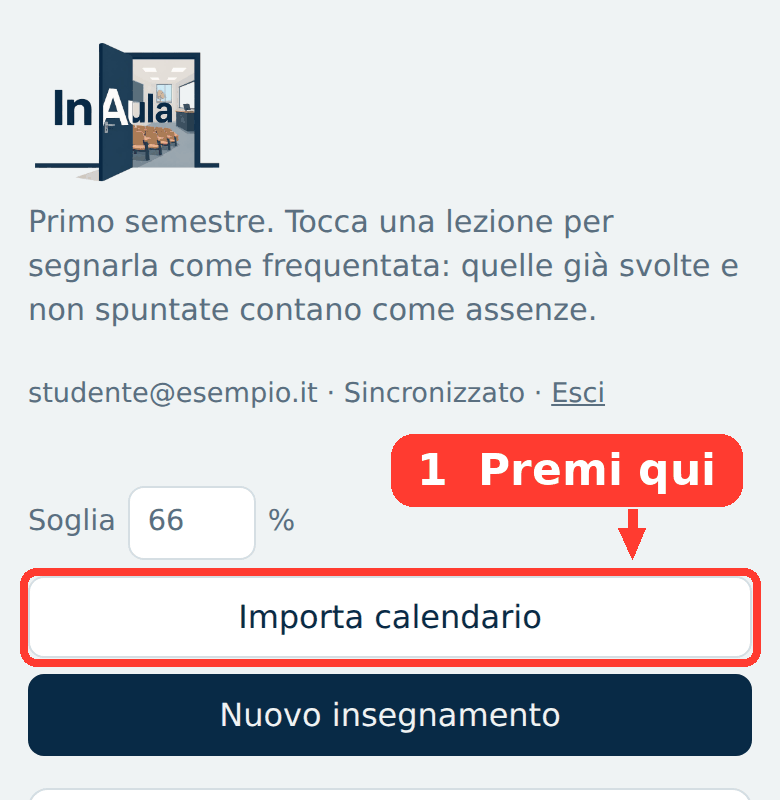
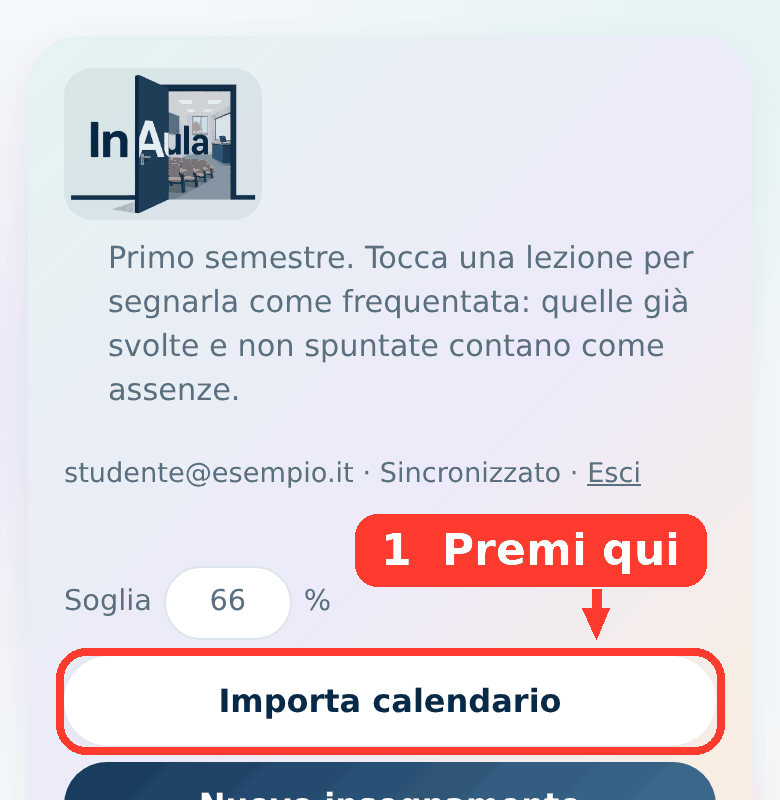
Add files via upload

diff --git a/index.html b/index.html
@@ -14,9 +14,9 @@
 <title>InAula</title>
 <link href="https://fonts.googleapis.com/css2?family=Bricolage+Grotesque:opsz,wght@12..96,400..700&display=swap" rel="stylesheet">
 <style>
-:root{--bg:#EFF3F4;--sf:#fff;--ink:#082A46;--mu:#5A6F80;--ln:#D5DEE3;--ok:#3B7A76;--no:#B8425A;--wa:#9A6427;--rs:#C9D3D9;color-scheme:light}
-@media (prefers-color-scheme:dark){:root:not([data-theme="light"]){--bg:#0B1B2B;--sf:#12283D;--ink:#E6EEF4;--mu:#95A9BA;--ln:#233A50;--ok:#5FB3AD;--no:#EE7C93;--wa:#D9A05B;--rs:#2A4258;color-scheme:dark}}
-:root[data-theme="dark"]{--bg:#0B1B2B;--sf:#12283D;--ink:#E6EEF4;--mu:#95A9BA;--ln:#233A50;--ok:#5FB3AD;--no:#EE7C93;--wa:#D9A05B;--rs:#2A4258;color-scheme:dark}
+:root{--bg:#F5F8FA;--sf:#fff;--ink:#082A46;--mu:#5A6F80;--ln:#DCE5EA;--ok:#2F7A5E;--no:#C0506B;--wa:#9A6427;--rs:#C9D3D9;--bgimg:radial-gradient(520px 340px at 100% 0,#E4F3F3 0,transparent 62%),radial-gradient(480px 320px at 0 22%,#EEEAF9 0,transparent 60%),radial-gradient(520px 360px at 100% 62%,#FBF1E2 0,transparent 60%);--hg:linear-gradient(135deg,#E5F3F1 0,#EDEAF9 55%,#FBEFDD 100%);--sh:0 6px 18px rgba(11,43,74,.07);--blend:multiply;--ct:13%;--warnbg:#FBF0DC;--dotpct:80%;--dotmix:#0B2B4A;--dotck:#fff;--pri:linear-gradient(135deg,#17395B,#3E6E96);--pric:#fff;--btnsh:0 1px 6px rgba(11,43,74,.08);color-scheme:light}
+@media (prefers-color-scheme:dark){:root:not([data-theme="light"]){--bg:#0B1B2B;--sf:#12283D;--ink:#E6EEF4;--mu:#95A9BA;--ln:#233A50;--ok:#6CBF9A;--no:#EE7C93;--wa:#D9A05B;--rs:#2A4258;--bgimg:radial-gradient(520px 340px at 100% 0,#123240 0,transparent 62%),radial-gradient(480px 320px at 0 22%,#1A2247 0,transparent 60%),radial-gradient(520px 360px at 100% 62%,#2B2A22 0,transparent 60%);--hg:linear-gradient(135deg,#143446 0,#1B2A4C 55%,#35291F 100%);--sh:0 6px 18px rgba(0,0,0,.35);--blend:normal;--ct:16%;--warnbg:#3A2F1D;--dotpct:100%;--dotmix:#0B2B4A;--dotck:#0B1B2B;--pri:linear-gradient(135deg,#8DBBE0,#A9A3DE);--pric:#0B1B2B;--btnsh:0 1px 6px rgba(0,0,0,.3);color-scheme:dark}}
+:root[data-theme="dark"]{--bg:#0B1B2B;--sf:#12283D;--ink:#E6EEF4;--mu:#95A9BA;--ln:#233A50;--ok:#6CBF9A;--no:#EE7C93;--wa:#D9A05B;--rs:#2A4258;--bgimg:radial-gradient(520px 340px at 100% 0,#123240 0,transparent 62%),radial-gradient(480px 320px at 0 22%,#1A2247 0,transparent 60%),radial-gradient(520px 360px at 100% 62%,#2B2A22 0,transparent 60%);--hg:linear-gradient(135deg,#143446 0,#1B2A4C 55%,#35291F 100%);--sh:0 6px 18px rgba(0,0,0,.35);--blend:normal;--ct:16%;--warnbg:#3A2F1D;--dotpct:100%;--dotmix:#0B2B4A;--dotck:#0B1B2B;--pri:linear-gradient(135deg,#8DBBE0,#A9A3DE);--pric:#0B1B2B;--btnsh:0 1px 6px rgba(0,0,0,.3);color-scheme:dark}
 *{box-sizing:border-box}
 html{-webkit-text-size-adjust:100%}
 body{margin:0;background:var(--bg);color:var(--ink);font:16px/1.45 'Bricolage Grotesque',system-ui,sans-serif}
@@ -104,6 +104,35 @@ label.ck{display:flex;align-items:center;gap:8px}label.ck input{width:auto}
 @media (max-width:520px){main{padding:18px 14px 90px}.bar{width:100%}.thr{flex:1 0 100%}.bar .btn{flex:1 1 auto}}
 .loginbox{max-width:380px;margin-top:18px}
 .lnk{border:0;background:none;text-decoration:underline;padding:8px 0;color:var(--mu);cursor:pointer}
+body{background:var(--bgimg),var(--bg);background-attachment:fixed}
+header{background:var(--hg);border-radius:26px;padding:16px 18px 18px;box-shadow:var(--sh)}
+.logo{mix-blend-mode:var(--blend)}
+.btn{border-radius:999px;padding:10px 18px;font-weight:600}
+.btn.pri{background:var(--pri);color:var(--pric);border:0}
+.btn:not(.pri){border-color:transparent;box-shadow:var(--btnsh)}
+.thr input{border-radius:999px;text-align:center}
+.today{border:0;border-radius:22px;box-shadow:var(--sh);padding:16px 16px 10px}
+.today h2{font-size:1.25rem;font-weight:800}
+.today li{border-top:0!important;background:color-mix(in srgb,var(--cc) 11%,var(--sf));border-left:6px solid var(--cc);border-radius:14px;padding:8px 10px;margin:8px 0}
+.dot{border-color:color-mix(in srgb,var(--cc,var(--mu)) var(--dotpct),var(--dotmix));color:var(--dotck)}
+.dot.on{background:color-mix(in srgb,var(--cc,var(--ok)) var(--dotpct),var(--dotmix));border-color:color-mix(in srgb,var(--cc,var(--ok)) var(--dotpct),var(--dotmix))}
+.dot.abs{border-color:var(--no)}
+.legend{background:color-mix(in srgb,var(--sf) 62%,transparent);border-radius:16px;padding:10px 14px}
+.warn{border:0;border-radius:18px;background:var(--warnbg);box-shadow:var(--sh)}
+.card{border:0;border-radius:22px;background:linear-gradient(180deg,color-mix(in srgb,var(--cc) var(--ct),var(--sf)) 0,var(--sf) 55%);box-shadow:var(--sh);padding:20px 16px 12px;position:relative;overflow:hidden}
+.card::before{content:"";position:absolute;left:0;right:0;top:0;height:7px;background:var(--cc)}
+.card .pie circle[stroke="var(--ok)"]{stroke:var(--cc)}
+.card .pie circle[stroke="var(--rs)"]{stroke:color-mix(in srgb,var(--cc) 20%,var(--sf))}
+.top h2{font-size:1.2rem;font-weight:800}
+.verdict{display:inline-block;justify-self:start;padding:4px 12px;border-radius:999px;background:color-mix(in srgb,var(--st) 11%,var(--sf));font-size:.86rem}
+.card details summary{color:var(--ink);font-weight:600}
+.fab{background:linear-gradient(135deg,#6DB3AB,#A29CDB);color:#0B2B4A;box-shadow:0 3px 10px rgba(11,43,74,.18)}
+.sw{display:flex;flex-wrap:wrap;gap:10px;margin:6px 0 2px}
+.sw label{margin:0;display:block;position:relative}
+.sw input{position:absolute;opacity:0;width:1px;height:1px}
+.sw span{display:block;width:34px;height:34px;border-radius:50%;border:3px solid transparent;box-shadow:0 0 0 1px var(--ln);cursor:pointer}
+.sw input:checked+span{border-color:var(--sf);box-shadow:0 0 0 3px var(--ink)}
+.sw input:focus-visible+span{outline:2px solid var(--ok);outline-offset:3px}
 </style>
 </head>
 <body>
@@ -122,7 +151,7 @@ label.ck{display:flex;align-items:center;gap:8px}label.ck input{width:auto}
 </header>
 <div id="warn"></div>
 <section class="today" id="today"></section>
-<p class="legend"><span><i style="background:var(--ok)"></i>Presenze</span><span><i style="background:var(--no)"></i>Assenze già fatte</span><span><i style="background:var(--rs)"></i>Lezioni restanti</span><span>La tacca sull'anello segna il minimo da raggiungere, arrotondato per eccesso.</span></p>
+<p class="legend"><span><i style="background:conic-gradient(#6DB3AB,#A29CDB,#7FB0DC,#E2BC7C,#98C08E,#6DB3AB)"></i>Presenze (nel colore dell'insegnamento)</span><span><i style="background:var(--no)"></i>Assenze già fatte</span><span><i style="background:var(--rs)"></i>Lezioni restanti</span><span>La tacca sull'anello segna il minimo da raggiungere, arrotondato per eccesso.</span></p>
 <div class="grid" id="grid"></div>
 <div id="archive"></div>
 <button class="fab" data-act="guide" aria-label="Apri la guida">? Guida</button>
@@ -166,7 +195,7 @@ label.ck{display:flex;align-items:center;gap:8px}label.ck input{width:auto}
 <details class="gs" id="gs2"><summary>2. Importare il calendario in InAula</summary><div class="gb">
 <ol class="st">
 <li>Premi <b>Importa calendario</b> in alto.<img class="gimg" src="guida-5.png" width="780" height="800" alt="Intestazione di InAula con il pulsante Importa calendario evidenziato" loading="lazy"></li>
-<li>Nella finestra che si apre segui i numeri:<img class="gimg" src="guida-6.png" width="780" height="1562" alt="Finestra Importa calendario con quattro punti numerati" loading="lazy">
+<li>Nella finestra che si apre segui i numeri:<img class="gimg" src="guida-6.png" width="780" height="1566" alt="Finestra Importa calendario con quattro punti numerati" loading="lazy">
 <ol class="sub"><li><b>Incolla il link</b> copiato dall'università: si legge da solo. (Se non parte, premi <b>Leggi il link</b>.)</li>
 <li>Scegli come contare la frequenza: <b>per insegnamento intero</b> (la soglia vale sul totale dei moduli) oppure <b>per singoli moduli</b> (ogni modulo ha la sua soglia).</li>
 <li>Scegli se contare in <b>numero di lezioni</b> o in <b>ore</b>.</li>
@@ -179,24 +208,24 @@ label.ck{display:flex;align-items:center;gap:8px}label.ck input{width:auto}
 
 <details class="gs" id="gs3"><summary>3. Segnare le presenze e vedere le lezioni di oggi</summary><div class="gb">
 <p><b>Tocca il cerchio</b> accanto alla lezione a cui vai: diventa verde con la spunta. Toccalo di nuovo per annullare.</p>
-<img class="gimg" src="guida-7.png" width="780" height="510" alt="Vista Oggi con l'elenco delle lezioni e il cerchio da toccare evidenziato" loading="lazy">
+<img class="gimg" src="guida-7.png" width="780" height="762" alt="Vista Oggi con l'elenco delle lezioni e il cerchio da toccare evidenziato" loading="lazy">
 <ul class="sub"><li><b>Oggi</b>, in alto, mostra le lezioni della giornata: le spunti da lì.</li>
 <li>Le lezioni già finite e non spuntate contano come <b>assenze</b> (cerchio rosso e scritta "assente").</li>
 <li>Puoi spuntare anche dalla scheda dell'insegnamento: tocca <b>Lezioni</b> per aprire l'elenco.</li></ul>
 </div></details>
 
 <details class="gs" id="gs4"><summary>4. Leggere il grafico e la soglia</summary><div class="gb">
-<img class="gimg" src="guida-8.png" width="780" height="529" alt="Scheda di un insegnamento con grafico ad anello, messaggio e numeri evidenziati" loading="lazy">
-<ol class="sub"><li><b>L'anello</b>: verde = presenze, rosso = assenze già fatte, grigio = lezioni che restano. Al centro c'è la percentuale di presenze sul totale. La <b>tacca</b> scura sull'anello segna il minimo da raggiungere.</li>
+<img class="gimg" src="guida-8.png" width="780" height="549" alt="Scheda di un insegnamento con grafico ad anello, messaggio e numeri evidenziati" loading="lazy">
+<ol class="sub"><li><b>L'anello</b>: il colore dell'insegnamento = presenze, rosso = assenze già fatte, grigio chiaro = lezioni che restano. Al centro c'è la percentuale di presenze sul totale. La <b>tacca</b> scura sull'anello segna il minimo da raggiungere.</li>
 <li><b>Il messaggio</b> dice quante assenze ti restano. Verde: sei tranquillo. Marrone: te ne restano pochissime (2 lezioni o meno). Rosso: la soglia non è più raggiungibile.</li>
 <li><b>I numeri</b>: presenze fatte e minimo richiesto, assenze fatte e massimo consentito.</li>
 <li><b>Lezioni</b> apre l'elenco delle lezioni.</li></ol>
-<p>In alto compare un riquadro con gli insegnamenti a rischio. La percentuale minima (66%) si cambia accanto a "Soglia", in alto. Il minimo è sempre arrotondato per eccesso.</p>
+<p>In alto compare un riquadro con gli insegnamenti a rischio. La percentuale minima (66%) si cambia accanto a "Soglia", in alto. Il minimo è sempre arrotondato per eccesso. Il colore di ogni insegnamento si sceglie da <b>Modifica</b>.</p>
 </div></details>
 
 <details class="gs" id="gs5"><summary>5. Modificare o spostare una lezione</summary><div class="gb">
 <p>Se un professore sposta o annulla una lezione, apri l'elenco con <b>Lezioni</b> e usa:</p>
-<img class="gimg" src="guida-9.png" width="780" height="1096" alt="Elenco delle lezioni con i pulsanti modifica, elimina e aggiungi lezione evidenziati" loading="lazy">
+<img class="gimg" src="guida-9.png" width="780" height="1095" alt="Elenco delle lezioni con i pulsanti modifica, elimina e aggiungi lezione evidenziati" loading="lazy">
 <ol class="sub"><li><b>✎</b> per cambiare data e orario (poi Salva). Nella stessa finestra puoi anche eliminare la lezione.</li>
 <li><b>✕</b> per eliminarla subito.</li>
 <li><b>Aggiungi lezione</b> per inserirne una nuova con data e orari.</li></ol>
@@ -317,9 +346,9 @@ function card(c){
   const L=[...c.lessons].sort((a,b)=>(a.d+(a.s||'')).localeCompare(b.d+(b.s||'')));
   const my=d=>new Date(d+'T12:00').toLocaleDateString('it-IT',{month:'short',year:'numeric'}),rg=arch&&L.length?`, archiviato (${my(L[0].d)} – ${my(L[L.length-1].d)})`:'';
   const rows=L.map(l=>{const ab=!l.p&&ended(l,now);
-    return`<li data-act="tog" data-c="${c.id}" data-l="${l.id}"><button class="dot${l.p?' on':''}${ab?' abs':''}" aria-pressed="${l.p}" aria-label="Presente">${l.p?'✓':''}</button><span class="lt"><span class="dt">${fmtD(l.d)}</span> ${l.s?`<small class="t">${l.s}${l.e?'–'+l.e:''}</small>`:''} ${l.m?`<small>${esc(l.m)}</small>`:''}</span>${l.o?'<span class="tag" style="color:var(--mu)">modificata</span>':''}${ab?'<span class="tag">assente</span>':''}<button class="x" data-act="el" data-c="${c.id}" data-l="${l.id}" aria-label="Modifica lezione">✎</button><button class="x" data-act="dl" data-c="${c.id}" data-l="${l.id}" aria-label="Elimina lezione">✕</button></li>`}).join('');
+    return`<li data-act="tog" data-c="${c.id}" data-l="${l.id}" style="--cc:${cc(c)}"><button class="dot${l.p?' on':''}${ab?' abs':''}" aria-pressed="${l.p}" aria-label="Presente">${l.p?'✓':''}</button><span class="lt"><span class="dt">${fmtD(l.d)}</span> ${l.s?`<small class="t">${l.s}${l.e?'–'+l.e:''}</small>`:''} ${l.m?`<small>${esc(l.m)}</small>`:''}</span>${l.o?'<span class="tag" style="color:var(--mu)">modificata</span>':''}${ab?'<span class="tag">assente</span>':''}<button class="x" data-act="el" data-c="${c.id}" data-l="${l.id}" aria-label="Modifica lezione">✎</button><button class="x" data-act="dl" data-c="${c.id}" data-l="${l.id}" aria-label="Elimina lezione">✕</button></li>`}).join('');
   const f=v=>fv(k,v),missing=k.T>k.S?`, di cui ${f(k.T-k.S)} non ancora in calendario`:'';
-  return`<article class="card" data-card="${c.id}" style="--st:${st.c}">
+  return`<article class="card" data-card="${c.id}" style="--st:${st.c};--cc:${cc(c)}">
 <div class="top"><div><h2>${esc(c.name)}</h2><div class="meta">${c.cfu?c.cfu+' CFU':'CFU non indicati'}${c.annual?', annuale':''}${c.unit==='h'?', conteggio in ore':''}${rg}</div></div><button class="btn" data-act="edit" data-c="${c.id}">Modifica</button></div>
 <div class="body">${pie(k)}<div class="stats"><div class="verdict">${st.t}</div>
 <div>Presenze <b>${f(k.P)}</b> su minimo <b>${f(k.M)}</b></div>
@@ -335,19 +364,24 @@ function renderTop(){
     if(c.arch)continue;
     c.lessons.forEach(l=>{if(l.d===td)items.push({c,l})});
     const k=calc(c);
-    if(k.T&&k.P<k.M&&k.margin<=k.warn)w.push(`<div><b>${esc(c.name)}</b>: ${status(k).t.toLowerCase()}</div>`);
+    if(k.T&&k.P<k.M&&k.margin<=k.warn)w.push(`<div>⚠ <b>${esc(c.name)}</b>: ${status(k).t.toLowerCase()}</div>`);
   }
   items.sort((a,b)=>(a.l.s||'').localeCompare(b.l.s||''));
   $('warn').innerHTML=w.length?`<div class="warn">${w.join('')}</div>`:'';
   const rows=items.map(({c,l})=>{const ab=!l.p&&ended(l,now);
-    return`<li data-act="tog" data-c="${c.id}" data-l="${l.id}"><button class="dot${l.p?' on':''}${ab?' abs':''}" aria-pressed="${l.p}" aria-label="Presente">${l.p?'✓':''}</button><span class="lt"><b>${esc(c.name)}</b> ${l.s?`<small class="t">${l.s}${l.e?'–'+l.e:''}</small>`:''} ${l.m?`<small>${esc(l.m)}</small>`:''}</span>${ab?'<span class="tag">assente</span>':''}</li>`}).join('');
-  $('today').innerHTML=`<h2>Oggi, ${now.toLocaleDateString('it-IT',{weekday:'long',day:'numeric',month:'long'})}</h2>`+(items.length?`<ul class="ls">${rows}</ul>`:'<p class="meta">Oggi non ci sono lezioni in calendario.</p>');
+    return`<li data-act="tog" data-c="${c.id}" data-l="${l.id}" style="--cc:${cc(c)}"><button class="dot${l.p?' on':''}${ab?' abs':''}" aria-pressed="${l.p}" aria-label="Presente">${l.p?'✓':''}</button><span class="lt"><b>${esc(c.name)}</b> ${l.s?`<small class="t">${l.s}${l.e?'–'+l.e:''}</small>`:''} ${l.m?`<small>${esc(l.m)}</small>`:''}</span>${ab?'<span class="tag">assente</span>':''}</li>`}).join('');
+  $('today').innerHTML=`<h2>📅 Oggi, ${now.toLocaleDateString('it-IT',{weekday:'long',day:'numeric',month:'long'})}</h2>`+(items.length?`<ul class="ls">${rows}</ul>`:'<p class="meta">Oggi non ci sono lezioni in calendario.</p>');
 }
+const PAL=[['Verde acqua','#6DB3AB'],['Lilla','#A29CDB'],['Azzurro','#7FB0DC'],['Sabbia','#E2BC7C'],['Salvia','#98C08E'],['Orchidea','#BE9BD6'],['Pesca','#E0A48F'],['Ardesia','#8FB0BF']];
+function nextColor(){const n=PAL.map(()=>0);S.courses.forEach(c=>{if(n[c.ci]!==undefined)n[c.ci]++});return n.indexOf(Math.min(...n))}
+function ensureColors(){let ch=false;S.courses.forEach(c=>{if(!PAL[c.ci]){c.ci=nextColor();ch=true}});if(ch)save()}
+const cc=c=>(PAL[c.ci]||PAL[0])[1];
 let archOpen=false;
 function render(){
+  ensureColors();
   $('thr').value=S.thr;renderTop();
   const act=S.courses.filter(c=>!c.arch),arc=S.courses.filter(c=>c.arch);
-  $('archive').innerHTML=arc.length?`<details class="archv"${archOpen?' open':''}><summary>Archivio (${arc.length})</summary><div class="grid">${arc.map(card).join('')}</div></details>`:'';
+  $('archive').innerHTML=arc.length?`<details class="archv"${archOpen?' open':''}><summary>🗂 Archivio (${arc.length})</summary><div class="grid">${arc.map(card).join('')}</div></details>`:'';
   $('grid').innerHTML=act.length?act.map(card).join(''):arc.length?`<div class="empty"><p>Nessun insegnamento attivo.<br>Importa il calendario del nuovo semestre o aggiungine uno.</p><div class="bar"><button class="btn pri" data-act="imp">Importa calendario</button><button class="btn" data-act="new">Nuovo insegnamento</button></div></div>`:`<div class="empty start"><h2>Inizia da qui</h2><ol><li>Copia il link dell'orario dal sito dell'università <button class="lnk" data-act="guide" data-s="1" style="padding:0">come si fa?</button></li><li>Premi <b>Importa calendario</b> e incolla il link</li><li>Tocca le lezioni a cui vai: il resto lo calcola InAula</li></ol><div class="bar"><button class="btn pri" data-act="guide" data-s="1">Apri la guida</button><button class="btn" data-act="imp">Importa calendario</button><button class="btn" data-act="new">Nuovo insegnamento</button></div></div>`;
 }
 function renderCard(id){
@@ -359,10 +393,12 @@ function renderCard(id){
   renderTop();
 }
 function courseDlg(c){
+  const ci=c&&PAL[c.ci]?c.ci:nextColor();
   dlg.innerHTML=`<h3>${c?'Modifica insegnamento':'Nuovo insegnamento'}</h3>
 <label>Nome<input id="fn" value="${esc(c?.name||'')}"></label>
 <label>CFU<input id="fc" type="number" min="0" value="${c?.cfu||''}"></label>
 <label class="ck"><input id="fa" type="checkbox"${c?.annual?' checked':''}> Insegnamento annuale</label>
+<div class="meta" style="margin-top:10px">Colore</div><div class="sw" role="radiogroup" aria-label="Colore dell'insegnamento">${PAL.map(([n,x],i)=>`<label title="${n}"><input type="radio" name="fcol" value="${i}"${i===ci?' checked':''}><span style="background:${x}"></span></label>`).join('')}</div>
 <label>Conta la frequenza in<select id="fu"><option value="l"${c?.unit==='h'?'':' selected'}>Numero di lezioni</option><option value="h"${c?.unit==='h'?' selected':''}>Ore di lezione</option></select></label>
 <label><span id="ftt">${c?.unit==='h'?'Totale ore previste':'Totale lezioni previste'} (facoltativo)</span><input id="ft" type="number" min="0" step="any" value="${c?.total||''}"></label>
 <label id="fdr"${c?.unit==='h'?'':' hidden'}>Durata predefinita (ore) per le lezioni senza orario<input id="fd" type="number" min="0.5" step="0.5" value="${c?.hd||2}"></label>
@@ -496,7 +532,7 @@ document.addEventListener('click',e=>{
   else if(a==='cancel')dlg.close();
   else if(a==='savec'){
     const name=$('fn').value.trim();if(!name){$('fn').focus();return}
-    const v={name,cfu:+$('fc').value||0,annual:$('fa').checked,total:+$('ft').value||0,unit:$('fu').value,hd:+$('fd').value||2};
+    const v={name,cfu:+$('fc').value||0,annual:$('fa').checked,total:+$('ft').value||0,unit:$('fu').value,hd:+$('fd').value||2,ci:+(document.querySelector('input[name=fcol]:checked')||{value:0}).value};
     if(c)Object.assign(c,v);else S.courses.push({id:uid(),...v,lessons:[]});
     save();dlg.close();render();
   }
